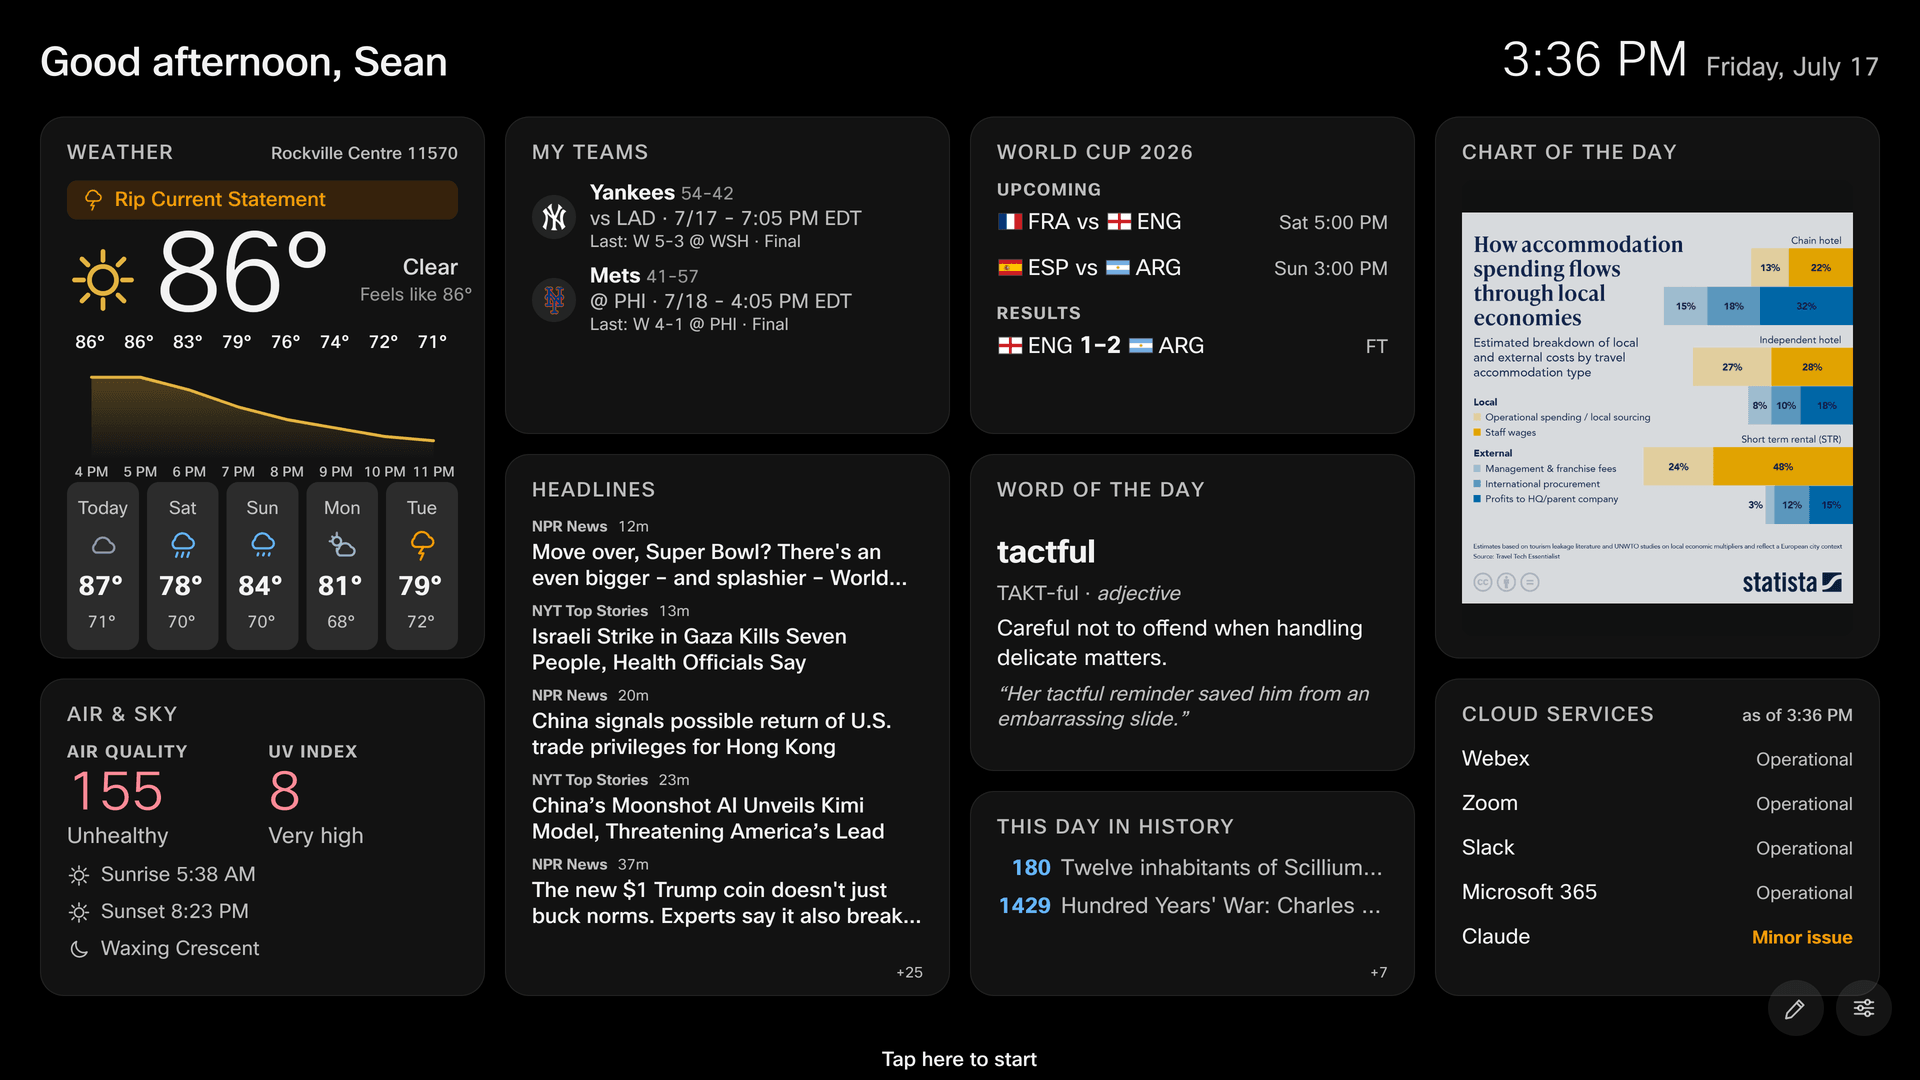
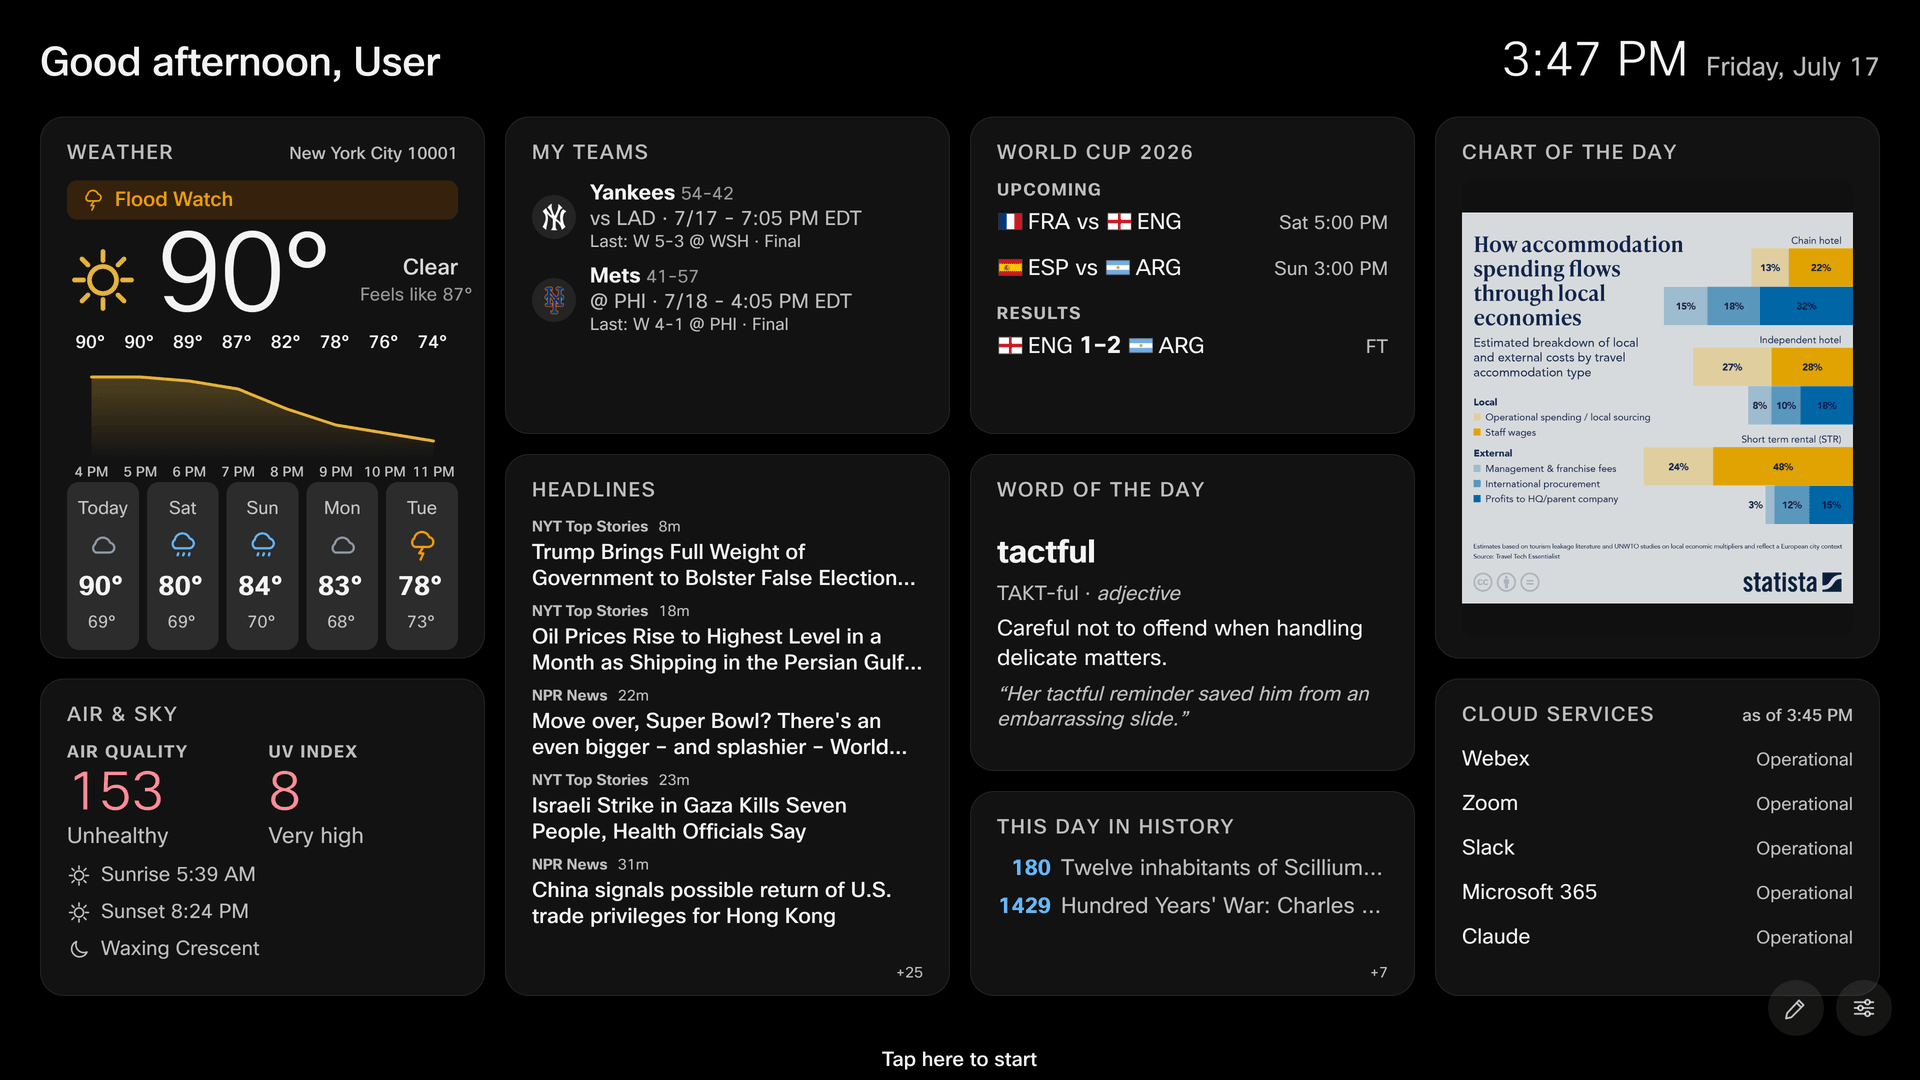
chore: scrub personal name/ZIP from public-facing surfaces
Sean's name + home ZIP were exposed in the shipped screenshots and examples:
- README dashboards replaced with re-captured shots (greeting reads 'User',
  default New York 10001 ZIP); dash-2 caption flood-watch not rip-current
- /setup name field placeholder 'Sean' -> 'Your name'
- demo config (?demo=1) greeting name 'Sean' -> 'User'
- geo.js comment naming '11570 Rockville Centre' genericized
Dev-attribution comments ('per Sean', 'Sean flagged') left as author notes.

Claude-Session: https://claude.ai/code/session_01FgRsDk8jB7kG2pq34X6iMJ

diff --git a/site/js/geo.js b/site/js/geo.js
@@ -1,6 +1,6 @@
 // ZIP → location via Zippopotam (keyless, CORS-open, purpose-built for postal
-// codes). The Open-Meteo geocoder used before matches place *names*, so most
-// suburban US ZIPs (e.g. 11570 Rockville Centre) returned nothing.
+// codes). The Open-Meteo geocoder used before matches place *names*, so many
+// suburban US ZIP codes returned nothing.
 export async function zipLookup(zip, fetchFn = fetch) {
   const res = await fetchFn(`https://api.zippopotam.us/us/${zip}`);
   if (!res.ok) return null;

diff --git a/site/js/main.js b/site/js/main.js
@@ -311,7 +311,7 @@ async function boot() {
   if (DEMO) {
     cfg = normalizeConfig({
       v: 3,
-      name: 'Sean',
+      name: 'User',
       mode: 'dashboard',
       layout: [
         { id: 'weather', x: 0, y: 0, w: 4, h: 4 },

diff --git a/site/setup.html b/site/setup.html
@@ -21,7 +21,7 @@
 
       <section class="field">
         <label for="name">Your first name <small>(for the greeting — optional)</small></label>
-        <input id="name" type="text" maxlength="24" autocomplete="given-name" placeholder="Sean">
+        <input id="name" type="text" maxlength="24" autocomplete="given-name" placeholder="Your name">
       </section>
 
       <section class="field">

diff --git a/README.md b/README.md
@@ -18,7 +18,7 @@ preferences that survive reboots, RoomOS upgrades.
 
 <table>
   <tr>
-    <td width="50%"><img src="docs/screenshots/dashboard-data-dense.png" alt="A denser layout: weather with a rip-current alert, My Teams, World Cup 2026, Air & Sky, headlines, word of the day, this day in history, and Statista's chart of the day"></td>
+    <td width="50%"><img src="docs/screenshots/dashboard-data-dense.png" alt="A denser layout: weather with a flood-watch alert, My Teams, World Cup 2026, Air & Sky, headlines, word of the day, this day in history, and Statista's chart of the day"></td>
     <td width="50%"><img src="docs/screenshots/edit-mode.png" alt="On-board edit mode: drag, resize, add and remove cards directly on the touchscreen"></td>
   </tr>
 </table>